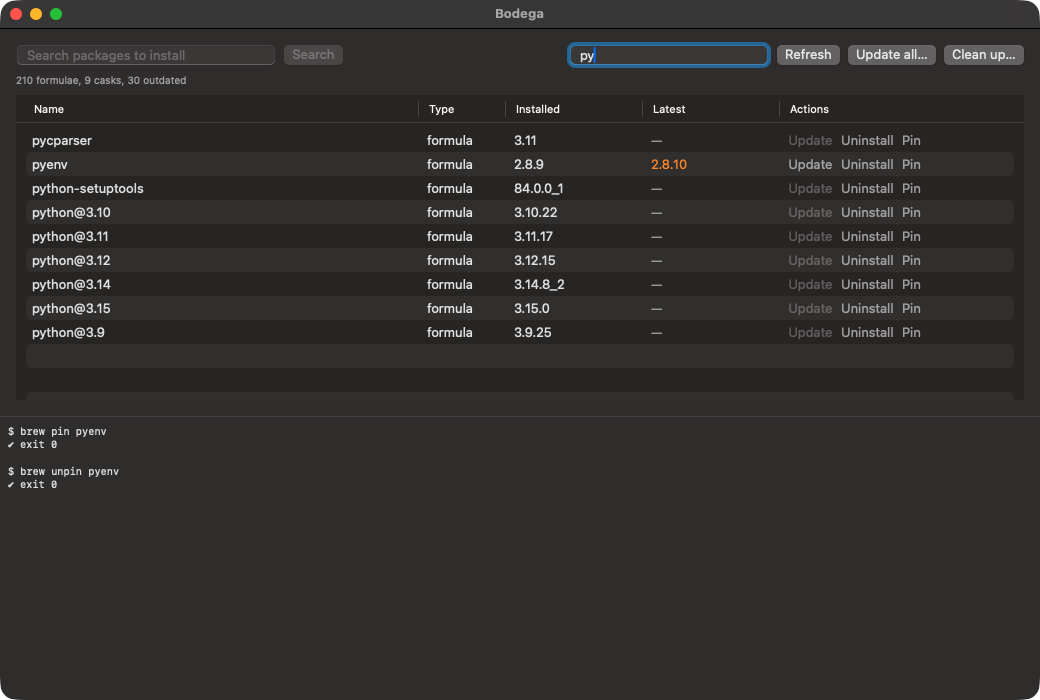
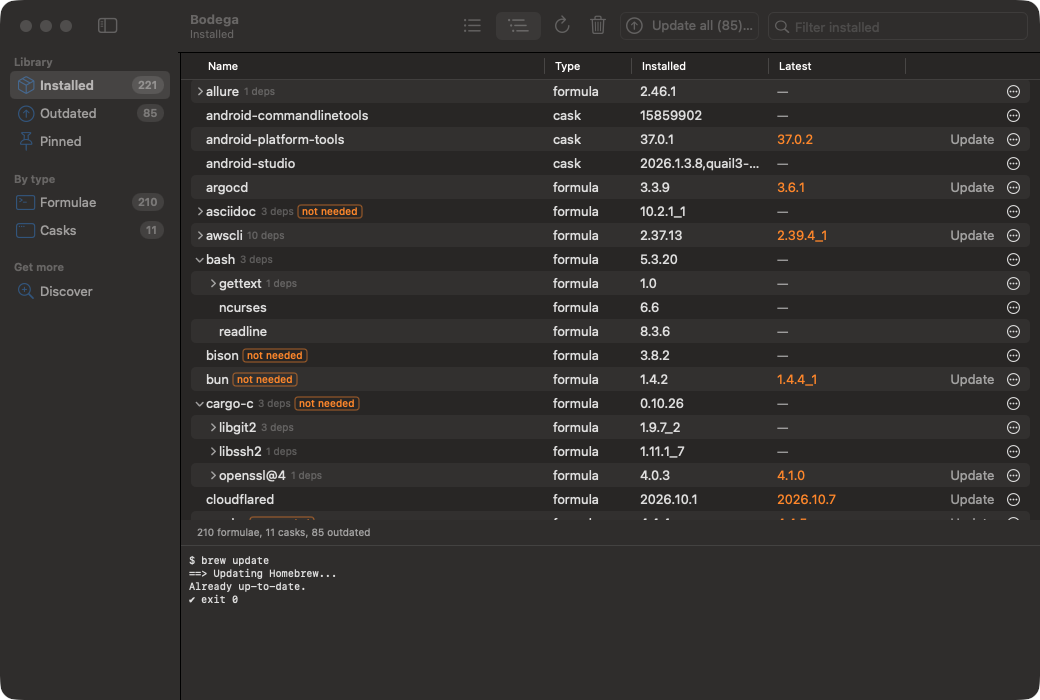
README: new screenshots (Installed as a tree, Discover with tags and links, the Update sheet for harfbuzz), social preview redrawn from the new main screenshot; intro mentions Discover and the tree; Discover's Install buttons in the ui.js notes

diff --git a/README.md b/README.md
@@ -7,14 +7,17 @@
 [![License: MIT](https://img.shields.io/github/license/asolfre/bodega)](LICENSE)
 ![macOS 14+](https://img.shields.io/badge/macOS-14%2B-blue)
 
-**A native macOS Homebrew GUI, built with SwiftUI.** Search, install, update, pin, uninstall and clean up
-formulae and casks, and see every dependency, dependent and source build before an upgrade runs.
+**A native macOS Homebrew GUI, built with SwiftUI.** Browse every Homebrew package with its license, links
+and warnings; install, update, pin, uninstall and clean up formulae and casks; see what your packages depend
+on as a tree; and see every dependency, dependent and source build before an install or upgrade runs.
 Every action is a plain `brew` command; Bodega changes nothing that brew itself would not. No Electron,
 no web view.
 
-![Bodega's main window: installed packages with versions, outdated ones in orange, and the brew output below](docs/screenshot.png)
+![Bodega's main window: installed packages as a tree, each one's dependencies under it, outdated versions in orange, dependencies nothing needs any more tagged "not needed", and the brew output below](docs/screenshot.png)
 
-![The Update sheet for llvm: a dependency and a package that uses it would also be upgraded](docs/update-sheet.png)
+![Discover: every Homebrew package matching "tree", with version, license, warnings such as deprecated or disabled, and links to the homepage and the GitHub project](docs/discover.png)
+
+![The Update sheet for harfbuzz: a dependency that would also be upgraded, five packages that use it, and a new dependency that would be installed](docs/update-sheet.png)
 
 ## Install
 
@@ -116,8 +119,8 @@ write to the same `Bodega.log`.
   `wait <id> [sec]`, `dialog <button>`, `sheet-text`, `sheet-ids`, `enabled <id>`, `close-window`.
   Sidebar sections are chosen with `select sidebar-<name>` (`installed`, `outdated`, `pinned`,
   `formulae`, `casks`, `discover`). To search Homebrew: `select sidebar-discover`, then
-  `type filter-field tree`; the first match is selected and its button is `install-formula:tree`. Uninstall and Pin sit in each row's ⋯ menu (`click actions-jq`)
-  and right-click menu.
+  `type filter-field tree`; each row's button is `install-formula:tree`. Uninstall and Pin sit in each
+  row's ⋯ menu (`click actions-jq`) and right-click menu.
   After launch the rows appear before the buttons work: they stay disabled until `brew update` ends,
   so repeat `enabled refresh-button` until it says `enabled` before clicking.
 - `shot.sh out.png` captures the Bodega window, on any display.
